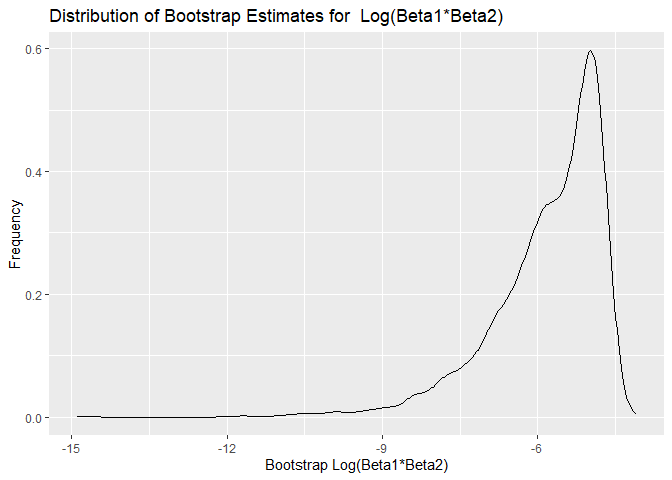
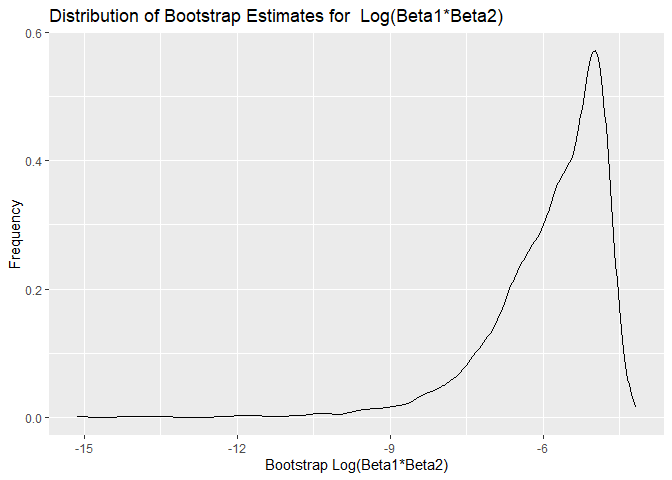
adding descriptions

diff --git a/hw6_rl3401.md b/hw6_rl3401.md
@@ -174,7 +174,7 @@ res =
     names_from = term,
     values_from = estimate,
   ) |>
-  mutate(log_bata = log ( tmin * abs(prcp)))
+  mutate(log_beta = log ( tmin * abs(prcp)))
 ```
 
 Identify the 2.5% and 97.5% quantiles to provide a 95% confidence
@@ -184,11 +184,26 @@ interval for $\hat{r}^2$ and $log(\hat{\beta_1} * \hat{\beta_2})$.
 r_squared_ci <- quantile(res$r.squared, c(0.025, 0.975))
 
 log_beta_ci <- quantile(res$log_beta, c(0.025, 0.975))
+
+r_squared_ci
 ```
 
-    ## Warning: Unknown or uninitialised column: `log_beta`.
+    ##      2.5%     97.5% 
+    ## 0.8882794 0.9398760
 
-draw the plot.
+``` r
+log_beta_ci
+```
+
+    ##      2.5%     97.5% 
+    ## -8.605143 -4.592966
+
+The 95% confidence interval for $\hat{r}^2$ is(0.89, 0.94).
+
+95% confidence interval for $log(\hat{\beta_1} * \hat{\beta_2})$ is
+(-8.92, -4.59).
+
+Now draw the plot.
 
 ``` r
 ggplot(res, aes(x = r.squared)) +
@@ -211,7 +226,7 @@ The curve is smooth, which suggests that the bootstrap samples were
 large enough to provide a good approximation of the distribution.
 
 ``` r
-ggplot(res, aes(x = log_bata)) +
+ggplot(res, aes(x = log_beta)) +
   geom_density()+
   labs(x = "Bootstrap Log(Beta1*Beta2)", y = "Frequency") +
   ggtitle("Distribution of Bootstrap Estimates for  Log(Beta1*Beta2)")
